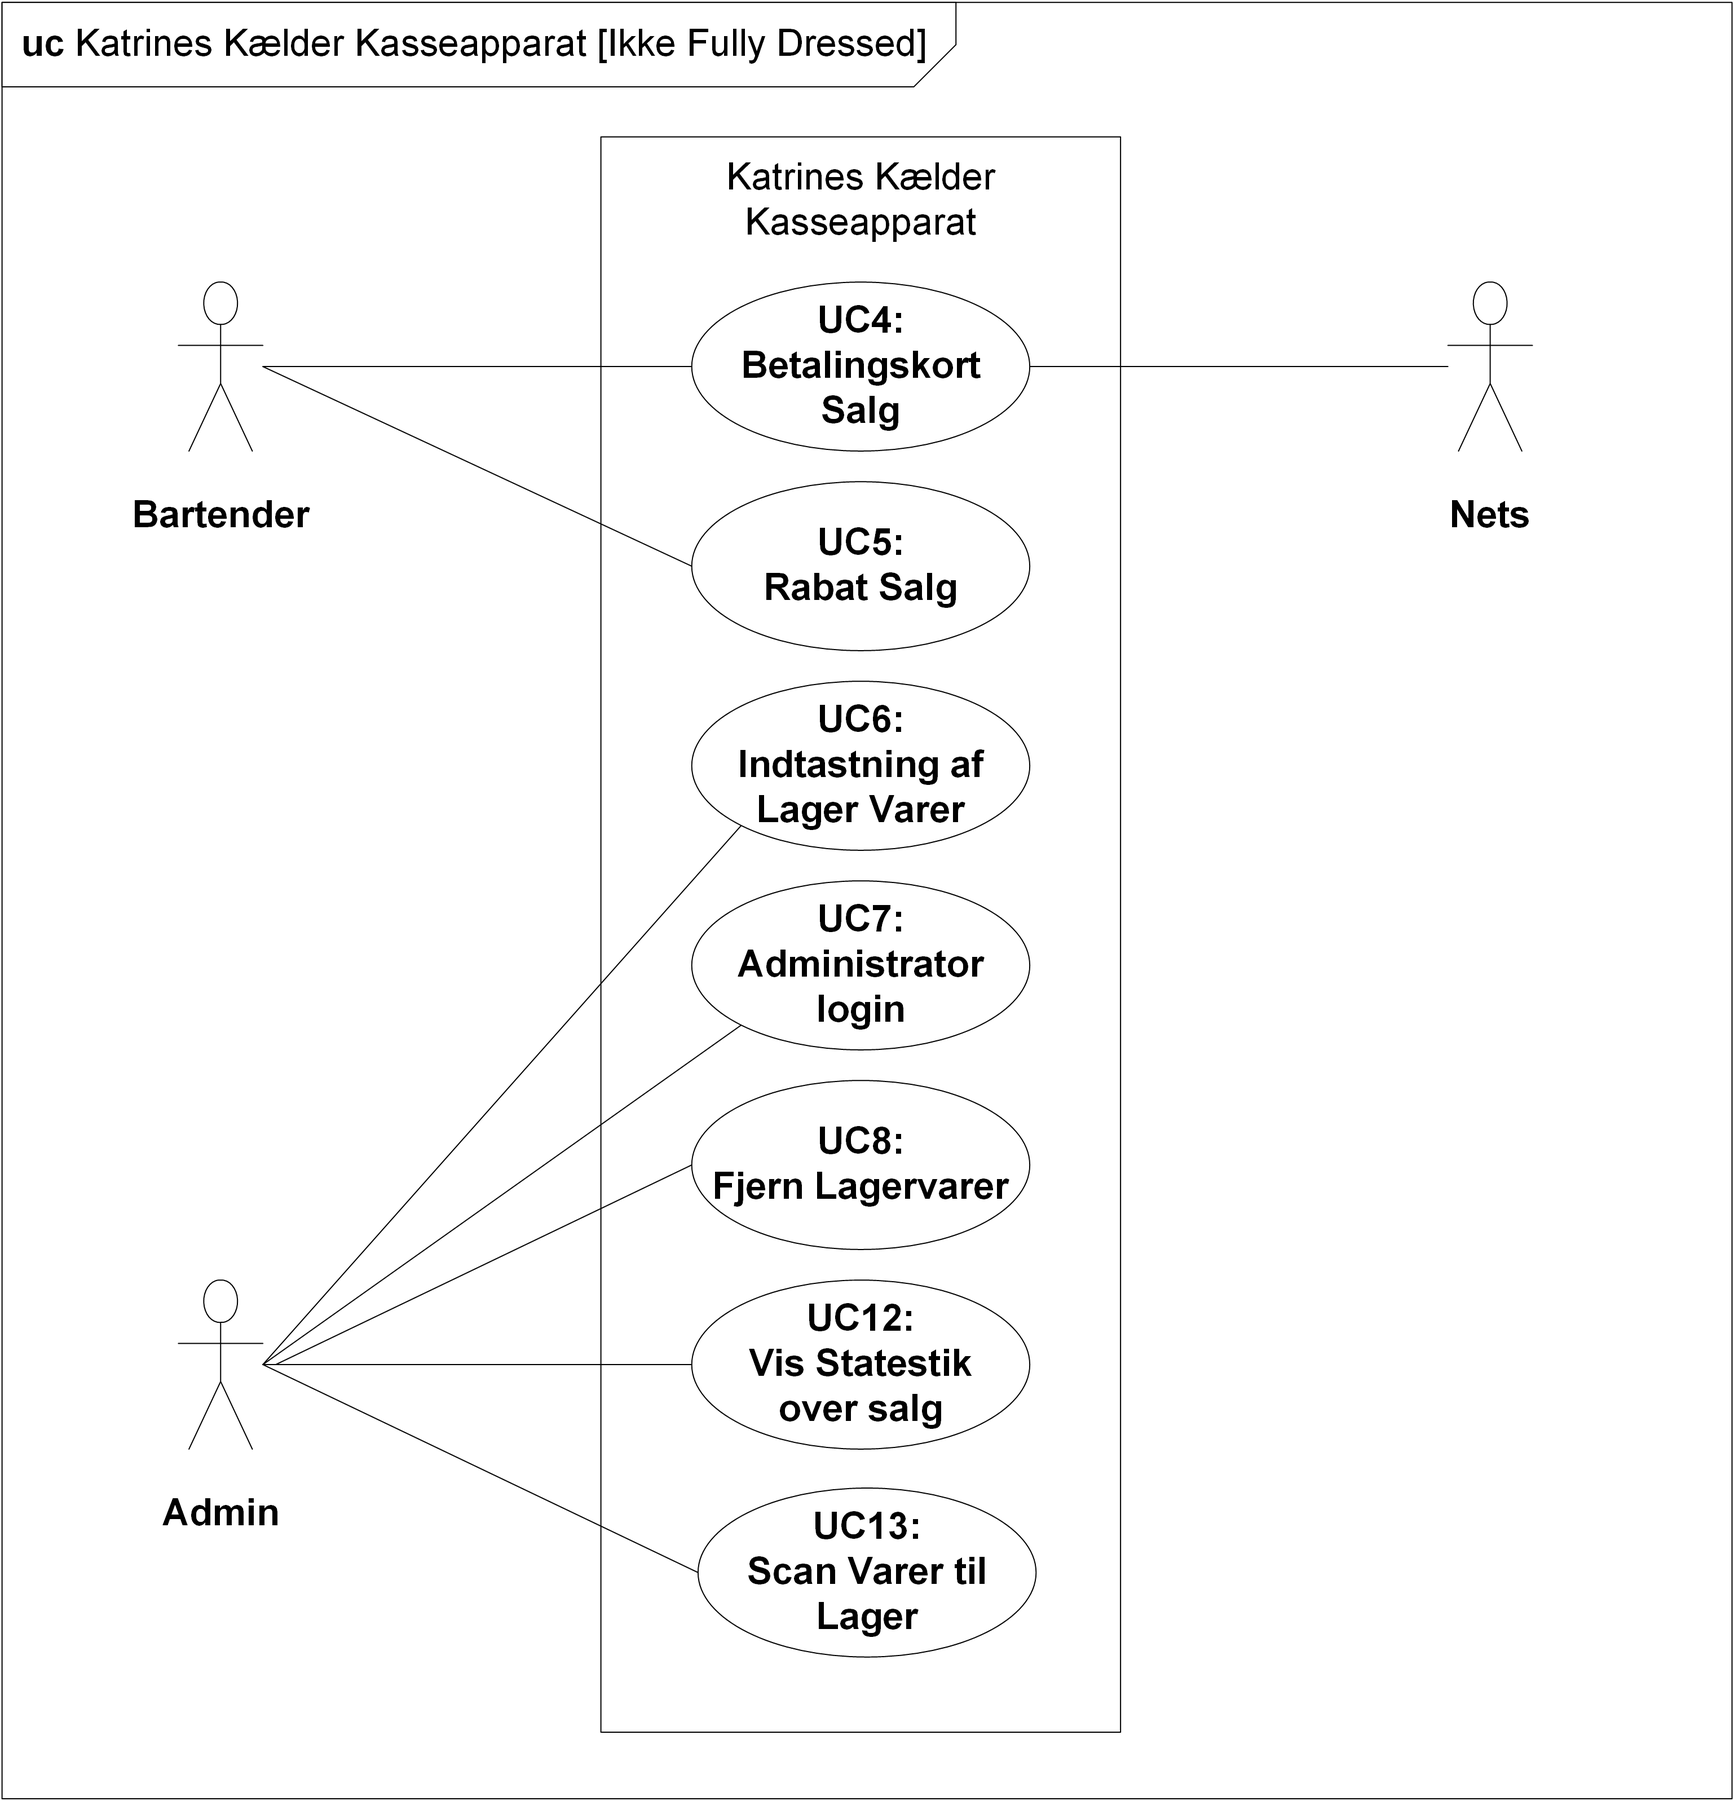
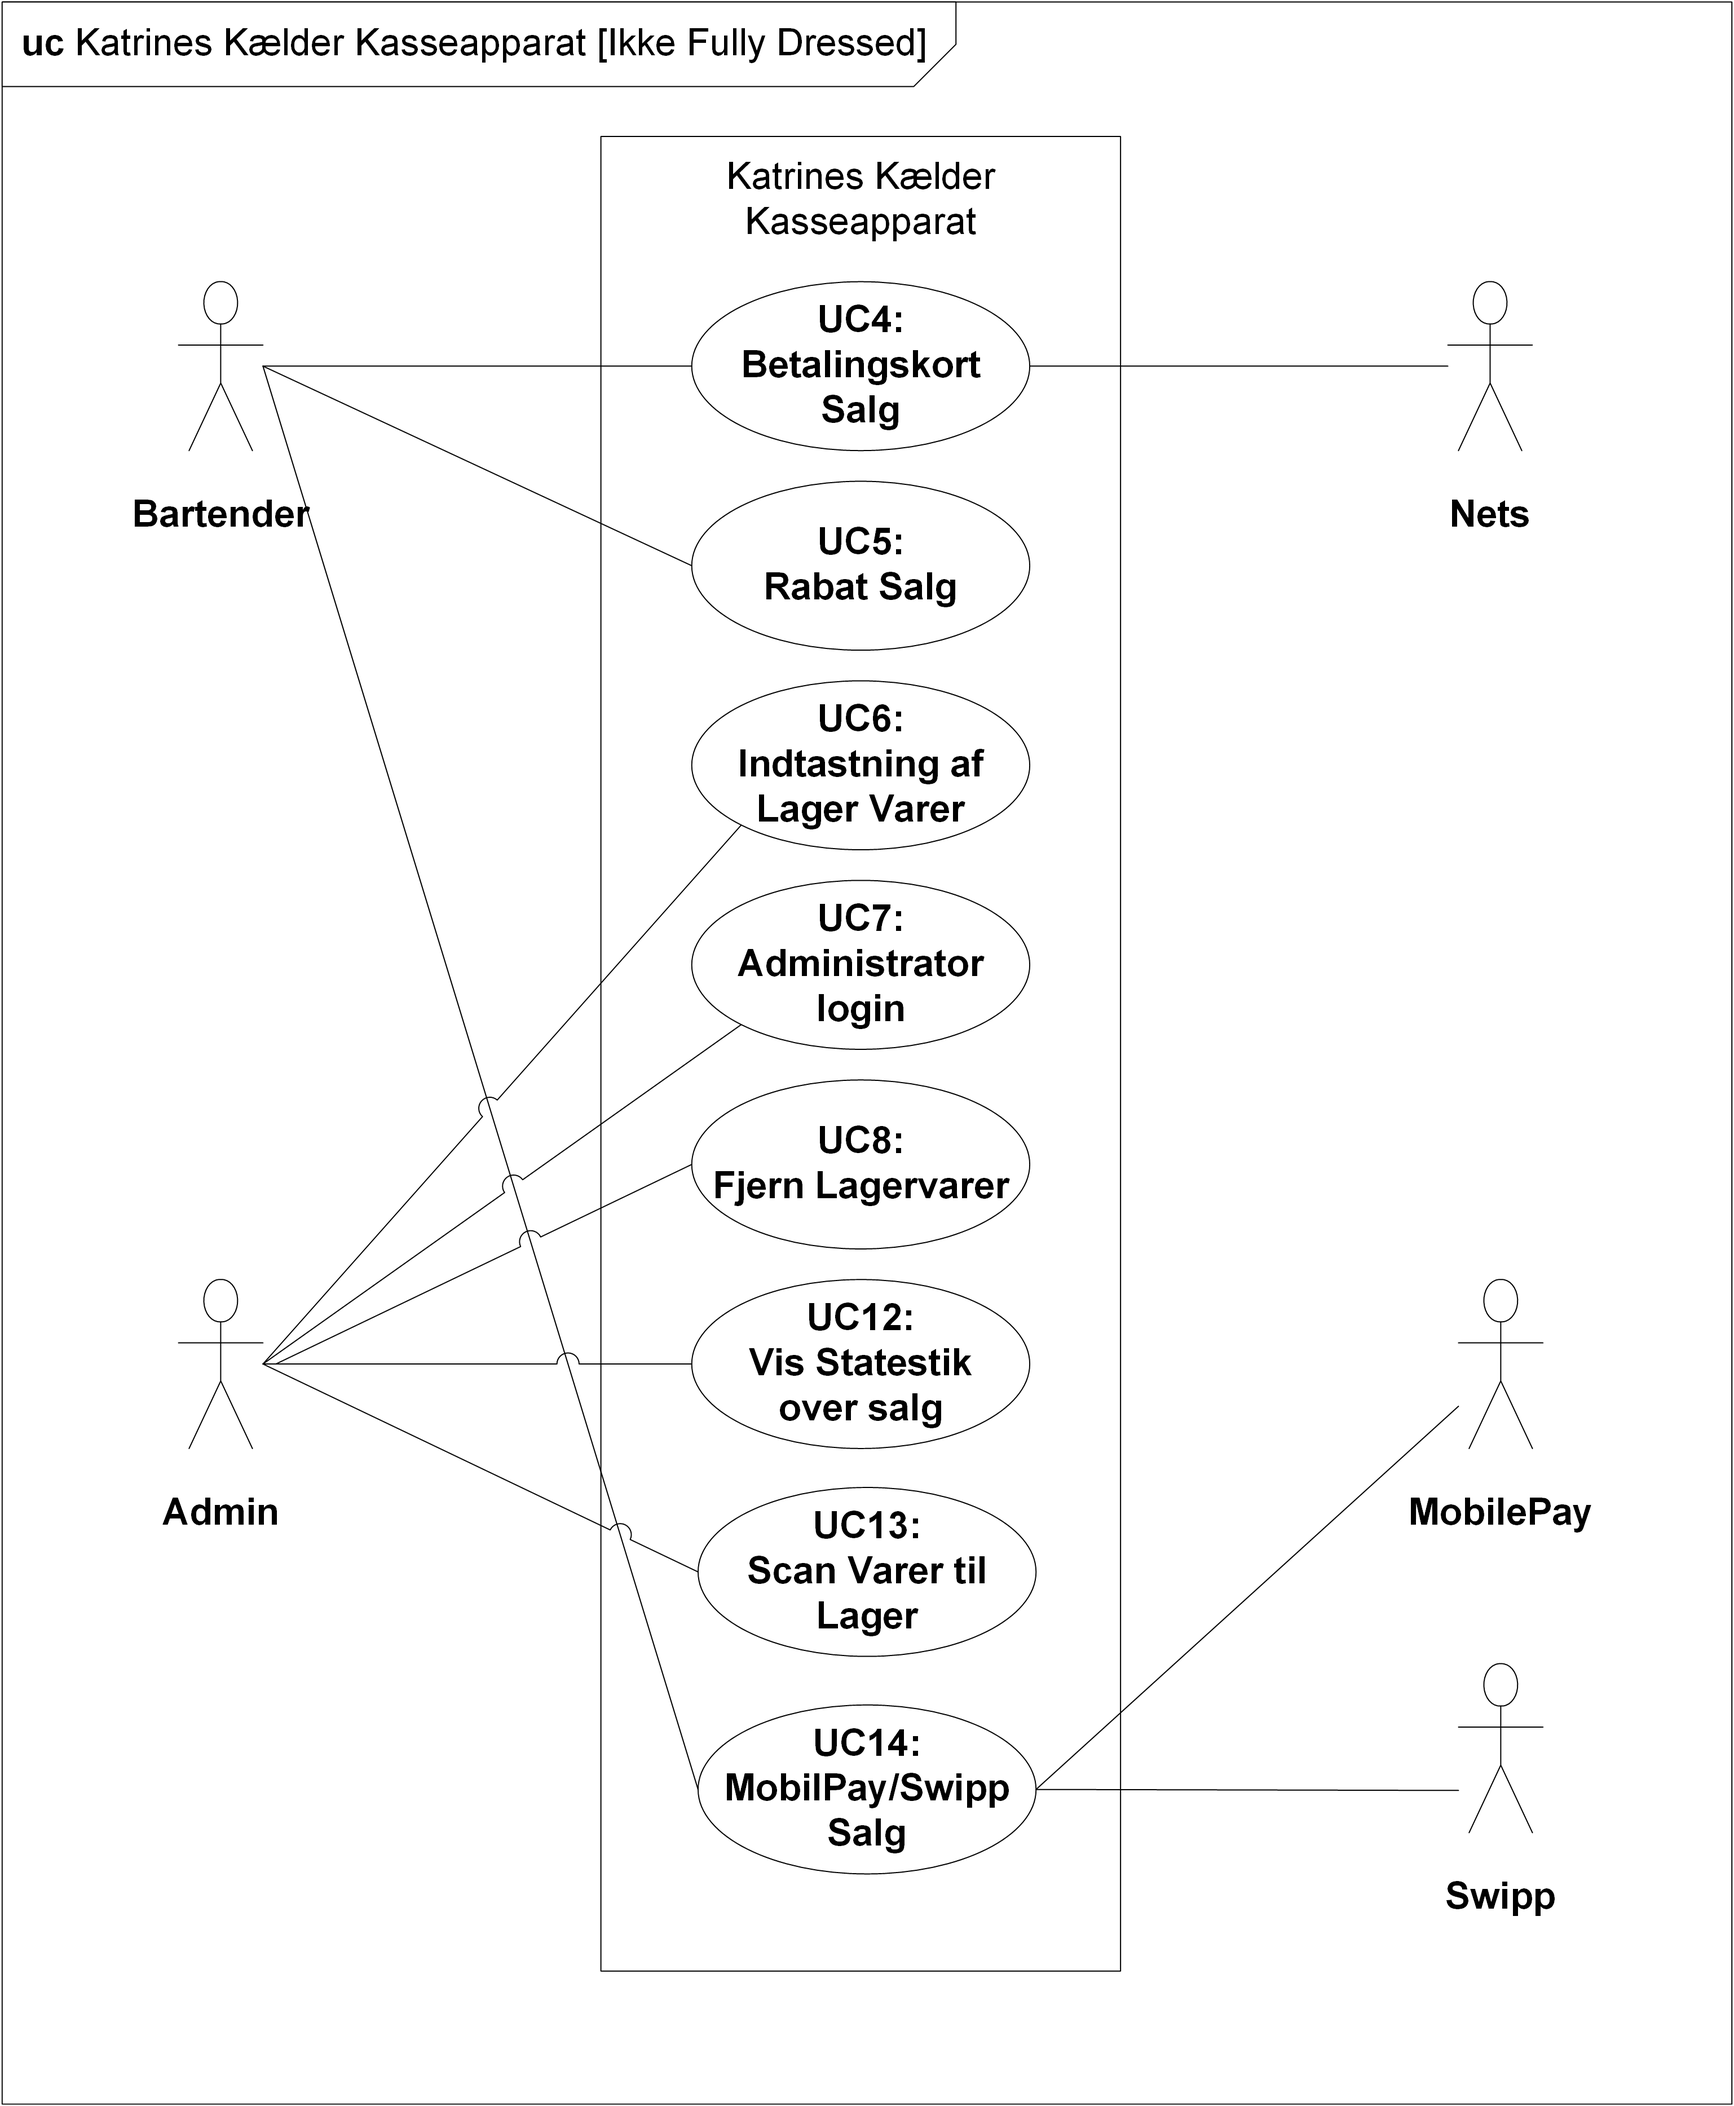
krav + ikke fuly dressed use case til MobilePay/swipp

diff --git a/Projektrapporten/Krav/Krav.tex b/Projektrapporten/Krav/Krav.tex
@@ -1,2 +1,66 @@
 %!TEX root = ../main.tex
 \chapter{Krav}
+Ud fra en opgaveformuleringen er der udarbejdet en rækker use cases som beskriver aktørernes interaktion med systemmet. Disse use cases er anvendt som karvaspecifikation, og er brugt som udgangspunkt til at fastlægge systemmet funktionalitet og design. De fulde use cases kan findes i dokumentationen under kravspecifikationen, sammen med de ikke fully dressed use cases, samt funktionelle krav. \newline
+
+
+\begin{minipage}{0.45\textwidth}
+\raggedright
+\section{Aktørbeskrivelse}
+I use casene ses en række aktører, der interagerer med systemet. Disse kan ses på aktørdiagrammet figur \ref{fig:actordiagram} og er beskrevet i den følgende aktørbeskrivelse. Flere detaljer om aktørene og hvordan de interagere med de ikke fully dressed use cases kan ses i projekt dokumentationen. 
+\newline
+\newline
+\end{minipage}
+\begin{minipage}{0.55\textwidth}
+\begin{figure}[H]
+	\centering
+	\includegraphics[width=0.7\textwidth]{Kravspecifikation/Actor/Actor.png}
+	\caption{Aktør-kontekst diagram}
+	\label{fig:actordiagram}
+\end{figure}
+\end{minipage} \hfill
+\newline
+\subsubsection*{Bartender}
+er en primær aktør af systemmet, og står for salg af varer og betjening af systemmet. 
+
+\subsubsection*{Admin}
+er en primær aktør, som står for logistikken (priser, varer osv.) gennem systemmet. 
+
+\subsubsection*{Nets}
+er en sekundær aktør, som er leverandøren af betalingsterminalen. Betalingsløsningen er en af systemets primære betalingsløsninger.
+
+\subsubsection*{MobilePay} 
+er en sekundær aktør, det er en betalingsløsning som er leveret af Danske bank
+
+\subsubsection*{Swipp} 
+er en sekundær aktør, som er en betalingsløsning som leveres af Nordea, Nykredit, Sydbank, Jyske Bank, Arbejdernes Landsbank, Spar Nord Bank og Lokale Pengeinstitutter.  
+
+\newpage
+
+\section{Use Case beskrivelse}
+De identificerede use cases er beskrevet i det følgende, her er der kun fokus på de fully dressed use cases. Hver use case beskriver et scenarie hvor aktører interagerer med systemet, hvor forholdet mellem de forskellige aktører kan ses på diagrammet figure \ref{fig:fullydressedusecases}
+
+\begin{figure}[H]
+	\centering
+	\includegraphics[width=0.6\textwidth]{Kravspecifikation/UseCases/UseCases_fully_dressed.png}
+	\caption{Use-case diagram for de fully dressed use-cases.}
+	\label{fig:fullydressedusecases}
+\end{figure} 
+
+\subsection*{Use Case 1: kontant Salg}
+Bartenderen skal kunne sælge vare mod kontant betaling. Det sker ved at bartenderen trykke på de vare kunden ønsker og vælger kontant betaling på betalingssiden. 
+
+
+\subsection*{Use Case 2: Udskriv Kundebon}
+Hvis en kunde ønsker en bon skal en bartender kunne printe den ud. Det bliver gjort ved at vælge bon knappen som så udskriver en bon til kunden. 
+
+\subsection*{Use Case 3: Kasseafstemning}
+Når Det skal være muligt at printe en bon med hvor meget der er solgt for i løbet af aftenen, så bartenderen kan trykke på aftem knappen og printer en bon med samlede salg og dato udskrevet. 
+
+\subsection*{Use Case 9: Tilføj vare til kasseapparat}
+Det skal være muligt at tilføje flere vare til kasseapparatet. Det kan Admin gøre ved at gå ind under settings i WebApi og tilføje et product ved at udfylde felterne i Add Product og tryk submit. 
+
+\subsection*{Use Case 10: Rediger vare i kasseapparat}
+En vare skal kunne redigeres. Det gør Admin ved at gå ind på den vare som han ønsker at redigere under settings i WebApi. Her kan de ønskede værdier ændres og gemmes ved at trykke submit
+
+\subsection*{Use Case 11: Fjern vare fra kasseapparat}
+En vare skal kunne redigeres. Det gør Admin ved at gå ind på den var som han ønsker at slettet under settings i WebApi og trykke på Delete uden for varen.

diff --git a/Projektdokumentation/Kravspecifikation/UseCases/IkkeFullyDressed.tex b/Projektdokumentation/Kravspecifikation/UseCases/IkkeFullyDressed.tex
@@ -29,3 +29,6 @@ Når der hentes varer på lageret skal disse kunne tjekkes ud af lager systemet.
 
 \subsubsection*{Use Case 13 - Scan varer til lager}
 Et apparat kan bruges til at scanne scanne varer ind i lagersystemet. 
+
+\subsubsection*{Use Case 14 - MobilPay/Swipp Salg}
+Skal beskrive forløbet for et salg der betales via MobilPay eller Swipp.
